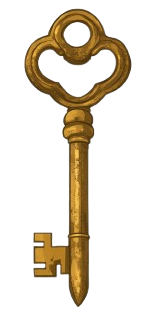
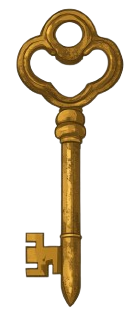
Style key images to have hover effect and key divs

diff --git a/assets/js/script.js b/assets/js/script.js
@@ -352,10 +352,15 @@ function showPuzzleGame() {
     $("#choices-container").hide();
     $(".story-heading").empty();
     $("#story-container").html(`<h3 id="key-question"></h3>`)
-    $("#pictures-container").html(`<img src="assets/images/key-red.png" class="key-image" alt="Red old key">
-                    <img src="assets/images/key-blue.png" class="key-image" alt="Blue old key">
-                    <img src="assets/images/key-yellow.png" class="key-image" alt="Yellow old key">`)
-    currentQuestion = "Which key matches the Sun symbol?";
+    $("#pictures-container").html(`<div class="puzzle-wrapper">
+    <div class="key-row">
+        <img src="assets/images/key-red.png" class="key-image" alt="Red old key">
+        <img src="assets/images/key-blue.png" class="key-image" alt="Blue old key">
+        <img src="assets/images/key-yellow.png" class="key-image" alt="Yellow old key">
+    </div>
+    <img src="assets/images/treasure-box.png" class="story-image treasure-box" alt="Old treasure box with sun, moon and star symbols">
+    </div>`)
+    currentQuestion = "Which key matches the SUN symbol?";
     $("#key-question").text(currentQuestion);
 };
 
@@ -369,21 +374,21 @@ $(document).on("click", ".solve-puzzle", function () {
 $(document).on("click", ".key-image", function () {
     const alt = $(this).attr("alt");
 
-    if (currentQuestion === "Which key matches the Sun symbol?") {
+    if (currentQuestion === "Which key matches the SUN symbol?") {
         if (alt === "Red old key") {
-            currentQuestion = "Which key matches the Moon symbol?";
+            currentQuestion = "Which key matches the MOON symbol?";
             $("#key-question").text(currentQuestion);
         } else {
             warningDialog("It is not the right key. Try again!");
         }
-    } else if (currentQuestion === "Which key matches the Moon symbol?") {
+    } else if (currentQuestion === "Which key matches the MOON symbol?") {
         if (alt === "Blue old key") {
-            currentQuestion = "Which key matches the Star symbol?";
+            currentQuestion = "Which key matches the STAR symbol?";
             $("#key-question").text(currentQuestion);
         } else {
             warningDialog("It is not the right key. Try again!");
         }
-    } else if (currentQuestion === "Which key matches the Star symbol?") {
+    } else if (currentQuestion === "Which key matches the STAR symbol?") {
         if (alt === "Yellow old key") {
             $("#key-question").text("Puzzle solved!");
             $("#choices-container").show();

diff --git a/assets/css/style.css b/assets/css/style.css
@@ -80,7 +80,7 @@ h1, h2 {
     text-align: center;
     margin-left: auto; 
     margin-right: auto;
-    margin-top: 3rem;
+    margin-top: 2rem;
     margin-bottom: 4rem;
     display: flex;
     flex-direction: column;
@@ -110,6 +110,21 @@ h1, h2 {
     margin-bottom: 2rem;
 }
 
+.key-row {
+    display: flex;
+    justify-content: center;
+    gap: 4rem;
+}
+
+.puzzle-wrapper {
+    display: flex;
+    flex-direction: column;
+    align-items: center;
+    gap: 1.5rem;
+    margin-top: 1rem;
+    margin-bottom: 2rem;
+}
+
 /*Buttons style*/
 
 .btn {
@@ -117,7 +132,6 @@ h1, h2 {
     background-color: var(--secondary-color);
     font-family: var(--secondary-font);
     padding: 0.5rem 1rem;
-    margin-top: 1rem;
     min-height: 3em;
 }
 
@@ -152,6 +166,12 @@ h1, h2 {
     border: 3px solid rgb(74, 150, 81);
     color: var(--primary-color);
 }
+
+.btn-choice {
+    margin: 2px;
+}
+
+
 
 /* Modal styling*/
 #modal-content {
@@ -196,16 +216,22 @@ dialog {
 }
 
 .story-image {
-    margin-top: 2rem;
     max-width: 90%;
     height: auto;
     border-radius: 5px;
     box-shadow: 5px 5px 12px rgba(0, 0, 0, 0.5);
+    margin: 1.5rem;
 }
 
 .key-image {
-    height: 70%;
-    width: auto;
+    width: 70px;
+    height: auto;
+}
+
+.key-image:hover {
+    transform: scale(1.1);
+    box-shadow: 0 0 12px rgba(255, 255, 100, 0.7);
+    border-radius: 5px;
 }
 
 /* Styles for big screen*/
